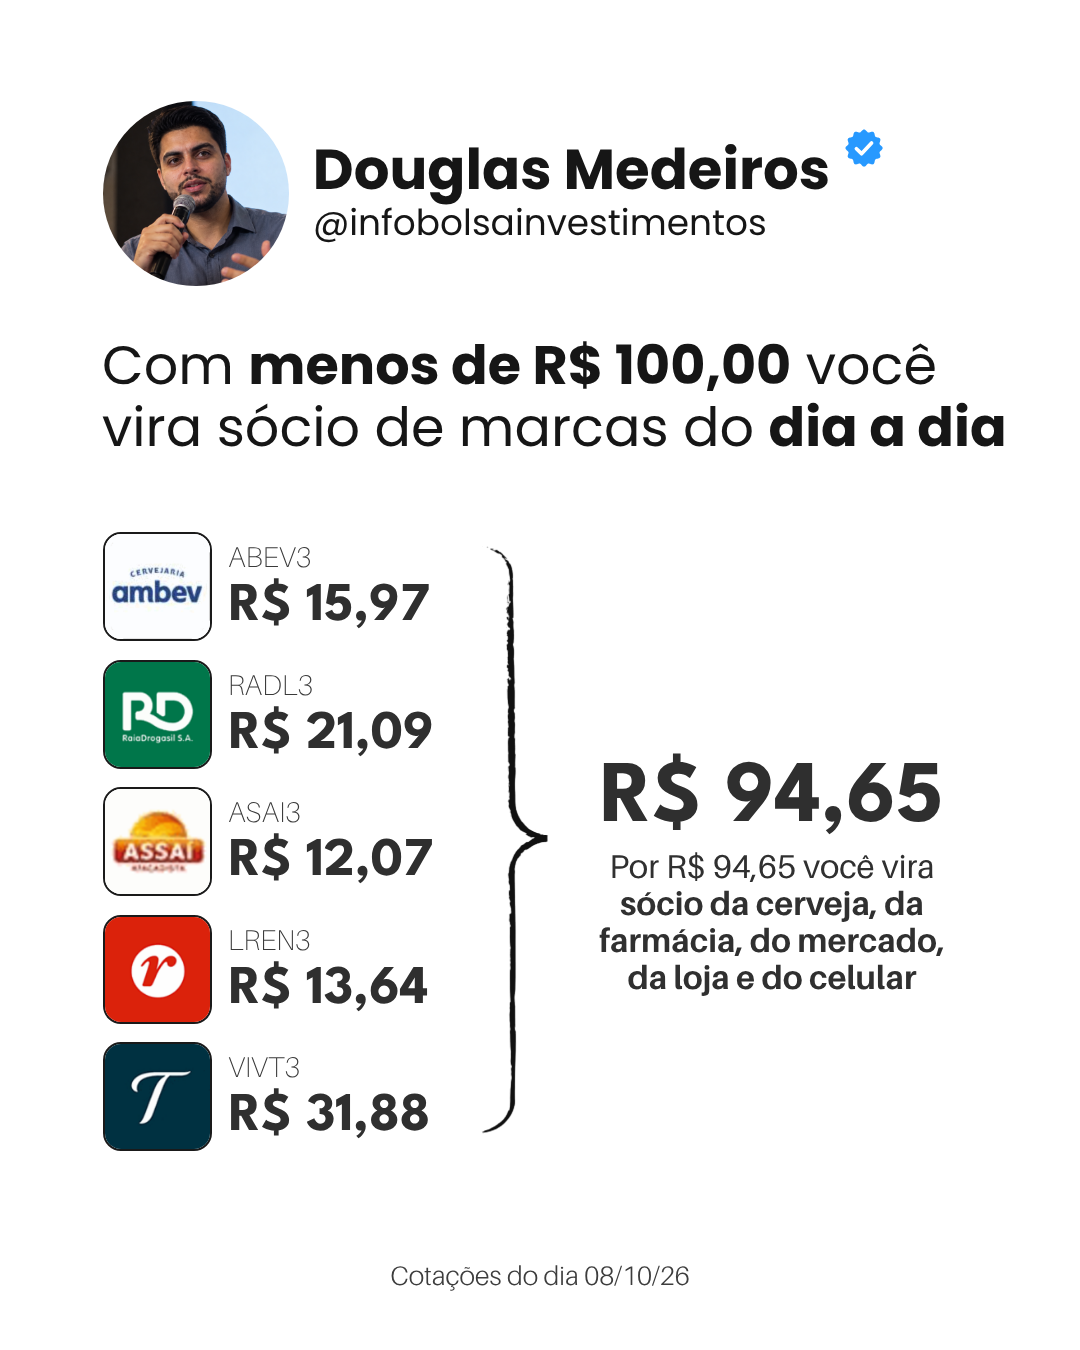
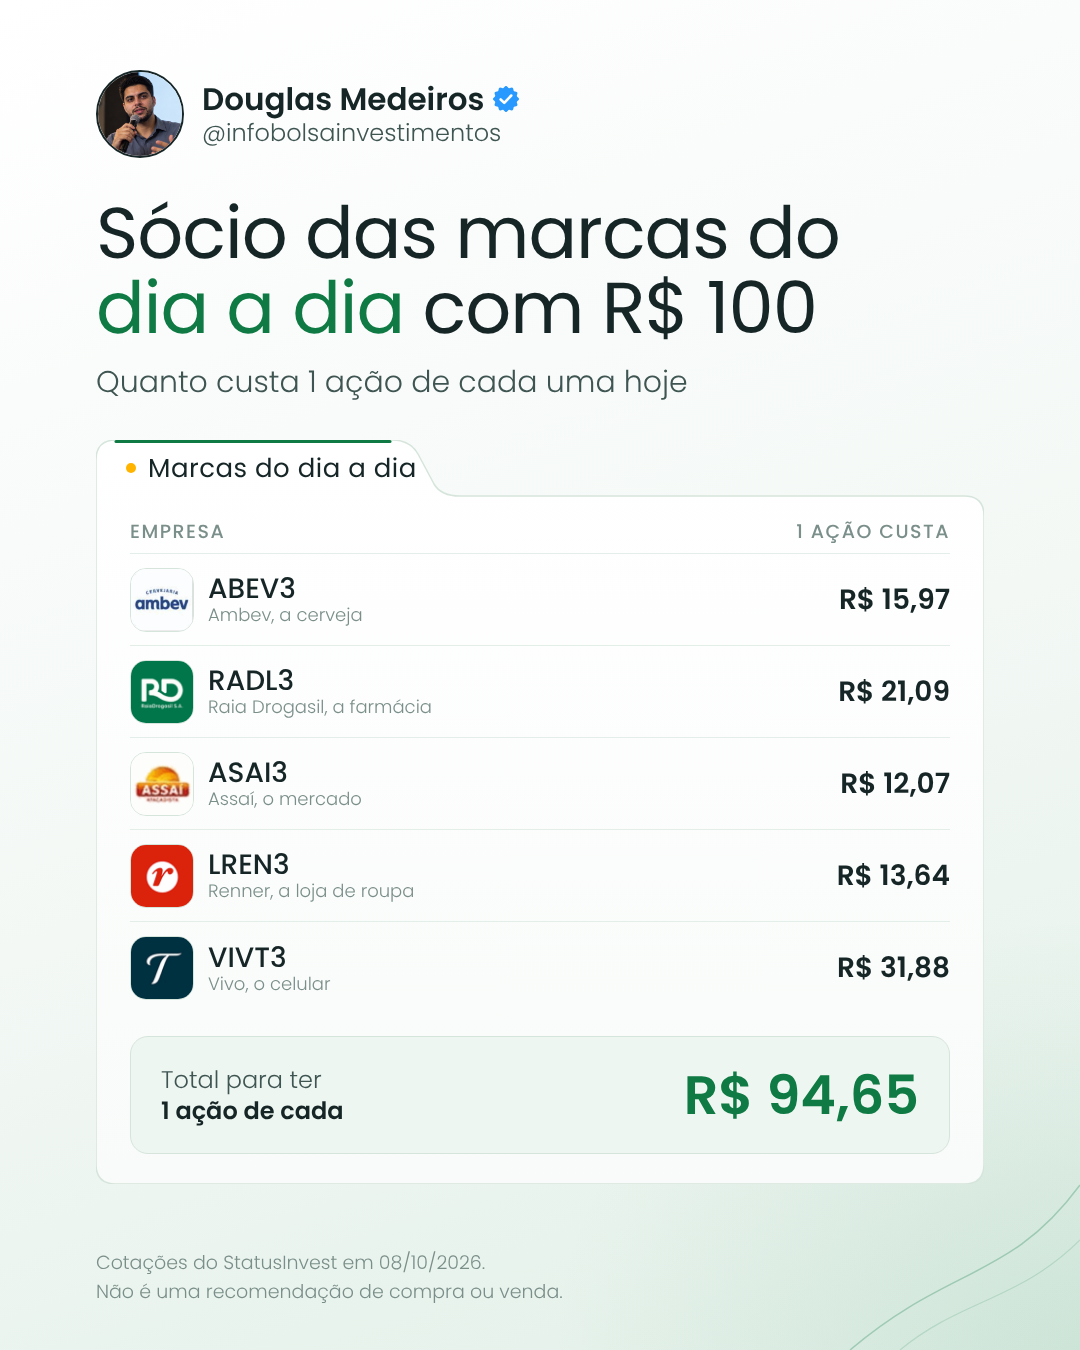
Sugestões no estilo institucional verde e slide final genérico de seguir
Claude-Session: https://claude.ai/code/session_01MWtzzA1UotvMmVAYbRqN28

diff --git a/kit/gen_inst.py b/kit/gen_inst.py
@@ -1,8 +1,9 @@
 #!/usr/bin/env python3
 """Posts no estilo institucional (mesma linha do Fechamento de mercado), 1080x1350.
 Uso: python3 gen_inst.py TIPO config.json saida.html [tema]
-TIPO: pag (dividendos / data de pagamento), vs (comparativo), fii (quanto investir para receber X por mes)
-tema: azul (degradê azul), claro (fundo branco), preto (quase preto). Padrao: azul.
+TIPO: pag (dividendos / data de pagamento), vs (comparativo), fii (quanto investir para receber X por mes),
+      tab (tabela genérica), socio (empresas com preço de 1 ação e total), segue (último slide do carrossel; config "-" usa o padrão)
+tema: verde (claro levemente verde, cores da InfoBolsa, PADRÃO das sugestões), azul, claro, preto. Padrao: verde.
 Le os mesmos json usados por gen_pag.py, gen_vs.py e gen_fii.py.
 """
 import json, sys, re
@@ -19,6 +20,11 @@ TEMAS = {
                   luz="rgba(40,110,255,.20)", fg="#ffffff", sub="rgba(255,255,255,.78)", mute="rgba(255,255,255,.50)",
                   acc="#3aa2ff", card1="rgba(255,255,255,.07)", card2="rgba(255,255,255,.025)", borda="rgba(255,255,255,.13)",
                   linha="rgba(255,255,255,.09)", chip="rgba(255,255,255,.06)", curva="rgba(90,150,255,.30)", foto="rgba(255,255,255,.85)"),
+    # padrão das sugestões desde 08/10/2026: claro levemente verde, cores da InfoBolsa (base #162526, verde, amarelo #FFB400)
+    "verde": dict(bg="linear-gradient(160deg,#ffffff 0%,#f3f8f5 55%,#e2f0e8 100%)",
+                  luz="rgba(15,122,67,.10)", fg="#162526", sub="#3f5552", mute="#7b8f8a",
+                  acc="#0f7a43", dot="#FFB400", card1="#ffffff", card2="#f8fbf9", borda="#d6e5dc",
+                  linha="#e4eee8", chip="#eef6f1", curva="rgba(15,122,67,.28)", foto="#162526"),
     "claro": dict(bg="linear-gradient(160deg,#ffffff 0%,#f4f7fc 55%,#e7eefb 100%)",
                   luz="rgba(29,111,224,.10)", fg="#0a1633", sub="#3d4a66", mute="#7a869e",
                   acc="#1d6fe0", card1="#ffffff", card2="#f7f9fd", borda="#d9e1ef",
@@ -49,7 +55,7 @@ body{position:relative;font-family:"P",sans-serif;font-weight:300;color:var(--fg
 .pasta{position:absolute;left:96px;width:888px}
 .psvg{position:absolute;inset:0}
 .aba{position:absolute;top:0;left:30px;height:56px;display:flex;align-items:center;gap:12px;font-weight:400;font-size:26px;letter-spacing:.5px}
-.aba em{font-style:normal;width:10px;height:10px;border-radius:50%;background:var(--acc)}
+.aba em{font-style:normal;width:10px;height:10px;border-radius:50%;background:var(--dot,var(--acc))}
 .rod{position:absolute;left:96px;right:96px;bottom:44px;font-size:19px;line-height:1.5;color:var(--mute)}
 .num{font-variant-numeric:tabular-nums}
 /* tabela */
@@ -82,6 +88,33 @@ body{position:relative;font-family:"P",sans-serif;font-weight:300;color:var(--fg
 .vs .lb{font-size:26px;font-weight:500;line-height:1.2}
 .vs .lb small{display:block;font-size:18px;font-weight:300;color:var(--mute)}
 .vs .vl{text-align:center;font-size:32px;font-weight:500}
+/* tabela generica */
+.tg .ln{font-size:28px}
+.tg .lb{font-weight:500;line-height:1.15}
+.tg .lb small{display:block;font-size:18px;font-weight:300;color:var(--mute);margin-top:2px}
+.tg .c{text-align:center}
+.tg .dst{font-weight:600;color:var(--acc)}
+.fim{position:absolute;left:96px;right:96px;font-size:28px;line-height:1.35;color:var(--sub)}
+.fim b{font-weight:600;color:var(--fg)}
+/* socio */
+.lgq{width:64px;height:64px;border-radius:16px;overflow:hidden;border:1.5px solid var(--borda);background:#fff;flex:none}
+.lgq img{width:100%;height:100%;object-fit:cover}
+.so .ln{font-size:28px}
+.so .nmx{display:flex;flex-direction:column;line-height:1.15}
+.so .nmx small{font-size:18px;color:var(--mute);font-weight:300}
+.total{position:absolute;left:34px;right:34px;display:flex;align-items:center;justify-content:space-between;border-radius:18px;background:var(--chip);border:1px solid var(--borda);padding:0 30px}
+.total .r1{font-size:24px;color:var(--sub);line-height:1.3}
+.total .r1 b{color:var(--fg);font-weight:600}
+.total .v{font-size:54px;font-weight:600;color:var(--acc)}
+/* segue */
+.it{display:flex;align-items:center;gap:22px;font-size:30px;line-height:1.25;font-weight:400}
+.it .n{width:48px;height:48px;border-radius:50%;background:var(--chip);border:1.5px solid var(--borda);display:flex;align-items:center;justify-content:center;font-size:22px;font-weight:600;color:var(--acc);flex:none}
+.it small{display:block;font-size:20px;color:var(--mute);font-weight:300}
+.btn{position:absolute;left:96px;right:96px;height:96px;border-radius:999px;background:var(--fg);color:#fff;display:flex;align-items:center;justify-content:center;gap:18px;font-size:34px;font-weight:600}
+.btn .m{width:46px;height:46px;border-radius:50%;background:var(--dot,var(--acc));color:var(--fg);display:flex;align-items:center;justify-content:center;font-size:36px;font-weight:700;line-height:1}
+.acoes{position:absolute;left:96px;right:96px;display:flex;gap:16px}
+.acoes div{flex:1;text-align:center;border:1px solid var(--borda);background:var(--card1);border-radius:18px;padding:16px 10px;font-size:22px;line-height:1.3;color:var(--sub)}
+.acoes b{display:block;font-size:26px;color:var(--fg);font-weight:600}
 """
 
 SELO = """<svg viewBox="0 0 40 40" aria-hidden="true"><path id="selo" fill="#2799ff" d=""/><path fill="none" stroke="#fff" stroke-width="3.7" stroke-linecap="round" stroke-linejoin="round" d="M12.4 20.7l5.1 4.9 10-10.6"/></svg>"""
@@ -178,9 +211,69 @@ def build_fii(c, tema):
     return pagina(tema, titulo, "", corpo, c["rodape"], tsize=72)
 
 
+def build_tab(c, tema):
+    """cfg: titulo (HTML, <span> = cor de destaque), sub, aba, colunas, linhas [[rotulo<small>..</small>, v1, v2..]],
+    destaque (índice da coluna), cols (grid), lh, fim (frase abaixo), rodape, tsize, top."""
+    dst = c.get("destaque")
+    linhas = ""
+    for row in c["linhas"]:
+        cel = f'<div class="lb">{row[0]}</div>'
+        for j, v in enumerate(row[1:], 1):
+            cel += f'<div class="c num{" dst" if j == dst else ""}">{v}</div>'
+        linhas += f'<div class="ln">{cel}</div>'
+    hd = "".join(f'<div{"" if i == 0 else " class=\"c\""}>{h}</div>' for i, h in enumerate(c["colunas"]))
+    lh = c.get("lh", 84)
+    cols = c.get("cols", "1.5fr 1fr 1fr")
+    tab = f'<div class="tb tg" style="--cols:{cols};--lh:{lh}px"><div class="hd">{hd}</div>{linhas}</div>'
+    h = 70 + 44 + len(c["linhas"]) * lh + 18
+    top = c.get("top", 430)
+    fim = f'<div class="fim" style="top:{top + h + 34}px">{c["fim"]}</div>' if c.get("fim") else ""
+    corpo = pasta(top, h, c.get("aba", "Comparativo"), tab, tema) + fim
+    return pagina(tema, c["titulo"], c.get("sub", ""), corpo, c["rodape"], tsize=c.get("tsize", 72))
+
+
+def build_socio(c, tema):
+    """cfg: titulo, sub, aba, linhas [[logo_path, ticker, nome, preco]], total, total_txt, rodape, tsize."""
+    lh = c.get("lh", 92)
+    linhas = "".join(f'<div class="ln"><div class="tk"><div class="lgq"><img src="{lg}"></div><div class="nmx">{tk}<small>{nm}</small></div></div>'
+                     f'<div class="r num"><b>R$ {pr}</b></div></div>' for lg, tk, nm, pr in c["linhas"])
+    tab = f'<div class="tb so" style="--cols:1fr auto;--lh:{lh}px"><div class="hd"><div>Empresa</div><div class="r">1 ação custa</div></div>{linhas}</div>'
+    n = len(c["linhas"])
+    tt = 70 + 44 + n * lh + 22
+    h = tt + 118 + 30
+    tot = f'<div class="total" style="top:{tt}px;height:118px"><div class="r1">{c["total_txt"]}</div><div class="v num">R$ {c["total"]}</div></div>'
+    top = c.get("top", 400)
+    corpo = pasta(top, h, c.get("aba", "Carteira"), tab + tot, tema)
+    return pagina(tema, c["titulo"], c.get("sub", ""), corpo, c["rodape"], tsize=c.get("tsize", 72))
+
+
+SEGUE_PADRAO = {
+    "titulo": "Me segue e <span>não perca</span><br>os próximos posts",
+    "sub": "Conteúdo novo todos os dias aqui no perfil",
+    "itens": [["Números do mercado atualizados", "ações, FIIs e renda fixa"],
+              ["Dividendos e renda passiva", "quem paga, quanto e quando"],
+              ["Educação financeira sem complicação", "para quem está começando"]],
+    "rodape": ["Conteúdo educativo. Não é uma recomendação de compra ou venda."],
+}
+
+
+def build_segue(c, tema):
+    """Último slide do carrossel, genérico (não anuncia tema). cfg opcional; sem cfg usa SEGUE_PADRAO."""
+    c = {**SEGUE_PADRAO, **(c or {})}
+    its = "".join(f'<div class="it" style="margin-bottom:30px"><div class="n">{i + 1}</div><div>{a}<small>{b}</small></div></div>'
+                  for i, (a, b) in enumerate(c["itens"]))
+    miolo = f'<div style="position:absolute;top:96px;left:40px;right:40px">{its}</div>'
+    h = 96 + len(c["itens"]) * 100 - 6
+    corpo = (pasta(480, h, "Por aqui você encontra", miolo, tema, tw=360)
+             + f'<div class="acoes" style="top:{480 + h + 40}px"><div><b>Salve</b>para consultar depois</div><div><b>Compartilhe</b>com quem está começando</div></div>'
+             + f'<div class="btn" style="top:{480 + h + 40 + 140}px"><span class="m">+</span>Seguir @infobolsainvestimentos</div>')
+    return pagina(tema, c["titulo"], c["sub"], corpo, c["rodape"], tsize=c.get("tsize", 80))
+
+
 if __name__ == "__main__":
     tipo, cfgp, out = sys.argv[1:4]
-    tema = sys.argv[4] if len(sys.argv) > 4 else "azul"
-    c = json.load(open(cfgp))
-    html = {"pag": build_pag, "vs": build_vs, "fii": build_fii}[tipo](c, tema)
+    tema = sys.argv[4] if len(sys.argv) > 4 else "verde"
+    c = json.load(open(cfgp)) if cfgp != "-" else {}
+    html = {"pag": build_pag, "vs": build_vs, "fii": build_fii, "tab": build_tab, "socio": build_socio,
+            "segue": build_segue}[tipo](c, tema)
     open(out, "w").write(html)

diff --git a/ROTINA-sugestoes.md b/ROTINA-sugestoes.md
@@ -11,7 +11,6 @@ IMPORTANTE: por enquanto NÃO POSTE em lugar nenhum (nada de Windsor execute_act
 4. Não repita: veja `sugestoes/` (sugestões dos últimos 14 dias) e as legendas dos posts dos últimos 30 dias. Não sugira o mesmo tema com os mesmos ativos de um post recente. Pode repetir um formato que funciona, com outro recorte ou outros ativos.
 
 ## 2. Escolher o post
-- PRIMEIRO veja `sugestoes/proximos.md`: se houver um tema anunciado para hoje neste horário, o post é esse (é promessa feita ao seguidor). Marque como feito no arquivo.
 - Escolha UM post baseado nos formatos que mais performam, refeito com números atuais ou com um ângulo novo.
 - Varie: alterne entre ações, FIIs, renda fixa e educação financeira ao longo dos dias. Não faça duas sugestões seguidas do mesmo assunto.
 - Sugestão: às 07h algo mais educativo e leve (simulação, metas, juntar dinheiro, comparação simples); às 15h algo com dados de mercado (dividendos, comparativos, FIIs, ações).
@@ -22,23 +21,23 @@ IMPORTANTE: por enquanto NÃO POSTE em lugar nenhum (nada de Windsor execute_act
 - Cotação, dividend yield, proventos de 12 meses, P/L, P/VP, ROE: StatusInvest (statusinvest.com.br, use WebFetch). Selic, CDI, poupança e PTAX: Banco Central. Confira os números antes de usar e escreva a data dos dados na imagem.
 - Simulações: deixe claro que é simulação ("Rentabilidade hipotética, não é garantia de retorno").
 
-## 4. Fazer a arte (modelo branco padrão)
-Dentro de `kit/`, com os geradores do modelo branco (cabeçalho com foto, nome, selo e @, fundo branco):
-- `gen_tab.py` tabela genérica (rankings, listas, simulações), `gen_pag.py` "Hoje é a data de pagamento" / dividendos em 12 meses, `gen_vs.py` comparativo entre duas empresas, `gen_rend100.py` quanto rendem R$ 100 mil, `gen_fii.py` quanto investir para receber X por mês, `gen_tempo.py` primeiros R$ 100 mil (barras), `gen_rank.py` ranking com ícones, `gen.py` salário mínimo / sócio de grandes empresas (quadros de logos com preço).
-- Use como modelo os configs de `kit/configs/branco/` (exemplos, semana-05-a-11-10 e semana-12-a-18-10; o `build.py` de cada semana mostra como os números são montados).
-- Crie o config em `kit/configs/sugestoes/AAAA-MM-DD-HHh.json`, depois `python3 GERADOR.py config.json t.html && python3 render.py t.html t.png`.
-- Olhe a imagem (Read) e confira: nada cortado ou sobreposto, números certos, logos aparecendo, sem travessão.
-- Salve em `sugestoes/AAAA-MM-DD-07h-1.png` (ou `-15h-1.png`) e a legenda em `sugestoes/AAAA-MM-DD-07h.txt`. Apague t.html e t.png.
+## 4. Fazer a arte (padrão novo desde 08/10/2026: estilo institucional, fundo claro levemente verde, cores da InfoBolsa)
+Use `kit/gen_inst.py` com o tema `verde` (é o padrão): cabeçalho pequeno com foto, nome, selo e @, título grande com uma palavra em verde (`<span>`), subtítulo, conteúdo dentro de uma "pasta" com aba (bolinha amarela), rodapé discreto. Base #162526, verde #0f7a43, amarelo #FFB400. Sem azul.
+- `python3 gen_inst.py TIPO config.json t.html verde && python3 render.py t.html t.png`
+- Tipos: `tab` tabela genérica (rankings, listas, simulações, comparativos de renda fixa), `socio` empresas com logo e preço de 1 ação + total (formato "Precisa ser rico" / "sócio de grandes empresas"), `vs` comparativo entre duas empresas, `pag` dividendos / data de pagamento, `fii` quanto investir para receber X por mês. Exemplos: `kit/configs/sugestoes/2026-10-08-07h-inst.json` (socio) e `2026-10-08-teste-inst.json` (tab); para `vs`, `pag` e `fii` os json de `kit/configs/branco/` servem.
+- Se precisar de um formato que o gen_inst.py ainda não tem, crie um novo tipo nele seguindo o mesmo visual (não volte para o modelo branco antigo).
+- Crie o config em `kit/configs/sugestoes/AAAA-MM-DD-HHh.json`.
+- Olhe a imagem (Read) e confira: nada cortado, sobreposto ou quebrando linha feio (título, frase final e rodapé), números certos, logos aparecendo, sem travessão.
+- Salve o slide 1 em `sugestoes/AAAA-MM-DD-07h-1.png` (ou `-15h-1.png`) e a legenda em `sugestoes/AAAA-MM-DD-07h.txt`. Apague t.html e t.png.
 - `git add -A && git commit -m "Sugestão DD/MM HHh" && git push` (branch main).
 
 ## 4b. Último slide: convite para seguir (carrossel)
 Toda sugestão é um carrossel de 2 slides:
 - Slide 1: a arte do post (seção 4), salva como `sugestoes/AAAA-MM-DD-HHh-1.png`.
-- Slide 2: convite para seguir anunciando o post de AMANHÃ no mesmo horário, com `gen_segue.py` (config em `kit/configs/sugestoes/AAAA-MM-DD-HHh-segue.json`, campos `quando` "Amanhã, às <b>07h</b>, eu posto:", `tema`, `sub`, `rodape`). Salve como `sugestoes/AAAA-MM-DD-HHh-2.png`.
-- Escolha o tema de amanhã seguindo as mesmas regras (formatos que performam, sem repetir, variar o assunto) e registre em `sugestoes/proximos.md` como pendente. Só anuncie algo que dá para fazer com dados públicos.
+- Slide 2: convite genérico para seguir e salvar, SEM anunciar tema do dia seguinte (a programação muda com as notícias): `python3 gen_inst.py segue - t.html verde && python3 render.py t.html t.png`. Salve como `sugestoes/AAAA-MM-DD-HHh-2.png`.
 
 ## 5. Legenda
-Frase de gancho, 1 ou 2 parágrafos curtos com os números principais, "Amanhã, às XXh, eu posto [tema]. Me segue para não perder!", "👉 [pergunta]? Comenta aqui!", "Não é uma recomendação de compra ou venda." (e "Rentabilidade hipotética, não é garantia de retorno." quando for simulação) e 5 ou 6 hashtags.
+Frase de gancho, 1 ou 2 parágrafos curtos com os números principais, "Me segue para não perder os próximos posts e salva este para consultar depois!", "👉 [pergunta]? Comenta aqui!", "Não é uma recomendação de compra ou venda." (e "Rentabilidade hipotética, não é garantia de retorno." quando for simulação) e 5 ou 6 hashtags.
 
 ## Regras
 - Nunca usar travessão, nem na imagem nem na legenda. Linguagem simples, sem frases com cara de IA.

diff --git a/ESTILO-NOVO.md b/ESTILO-NOVO.md
@@ -1,4 +1,7 @@
-# Estilo novo dos posts (em espera)
+# Estilo novo dos posts
+
+Atualização 08/10/2026: aprovado pelo Douglas e virou o padrão das sugestões diárias, no tema `verde` do gen_inst.py (claro levemente verde, cores da InfoBolsa). Tipos novos: tab, socio, segue.
+
 
 Status: aprovado como visual, mas em espera. Só usar quando o Douglas pedir posts de novo.
 Quando ele pedir, gerar os posts nesse formato institucional:
